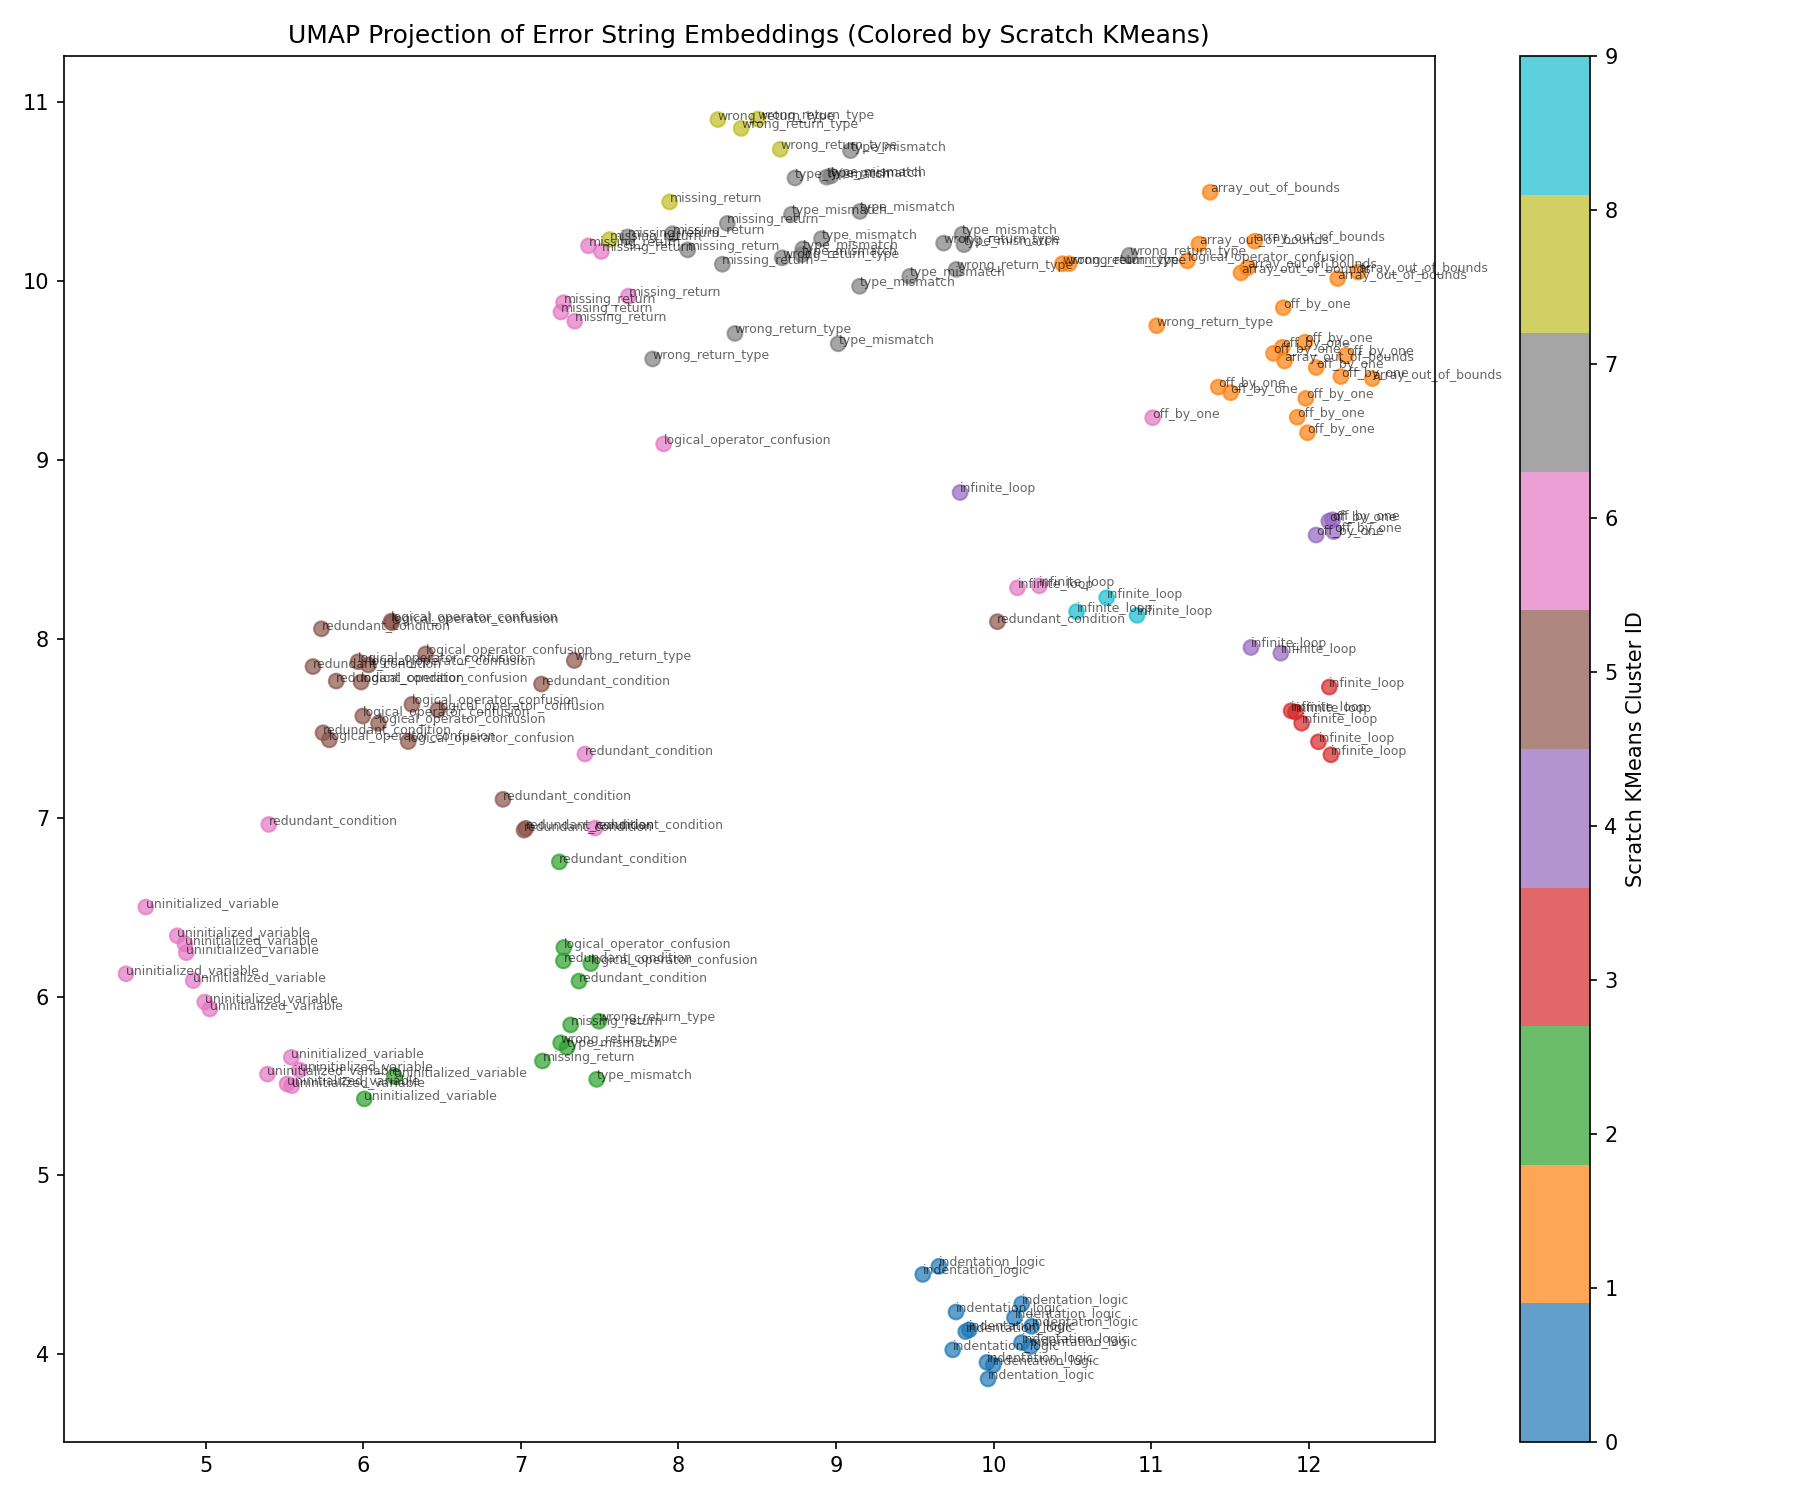
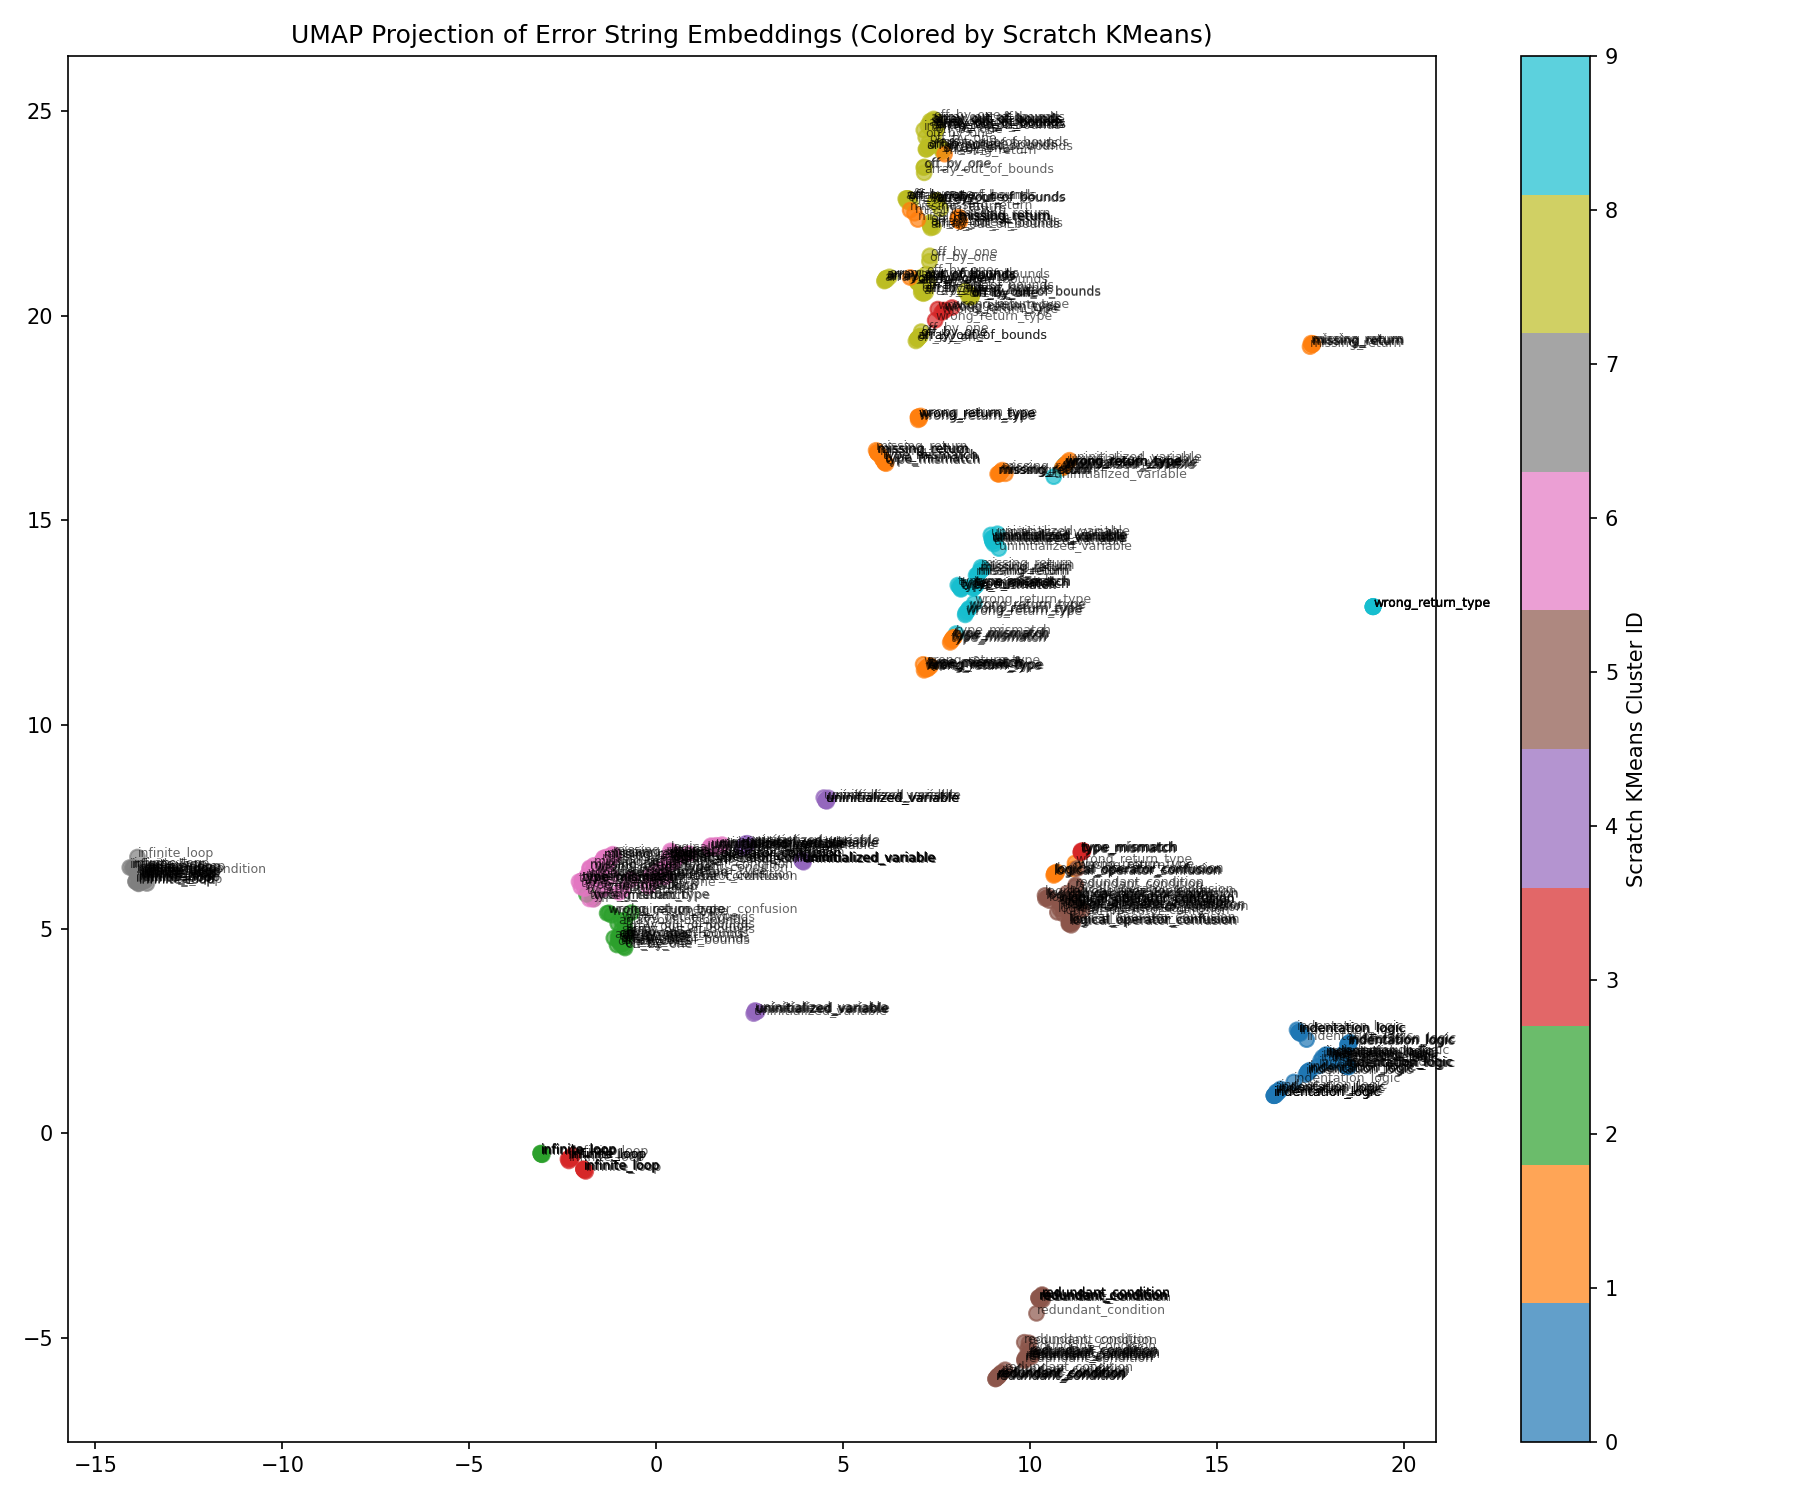
Pass code to analyzer, add evaluation metrics

diff --git a/iepa/backend/engine/pipeline.py b/iepa/backend/engine/pipeline.py
@@ -17,7 +17,7 @@ _FEEDBACK_GEN = FeedbackGenerator()
 if not _MAPPER.load_model():
     print("[!] Warning: ConceptMapper models not found. Did you run concept_mapper.py?")
 
-def analyze(learner_id: str, error_string: str) -> dict:
+def analyze(learner_id: str, error_string: str, code: str = None) -> dict:
     """
     End-to-end analysis pipeline.
     """
@@ -32,7 +32,7 @@ def analyze(learner_id: str, error_string: str) -> dict:
     engine.load(str(state_path))
     
     # 2. Call predict_concept
-    pred = _MAPPER.predict_concept(error_string)
+    pred = _MAPPER.predict_concept(error_string, code=code)
     concept = pred["concept"]
     confidence = pred["confidence"]
     
